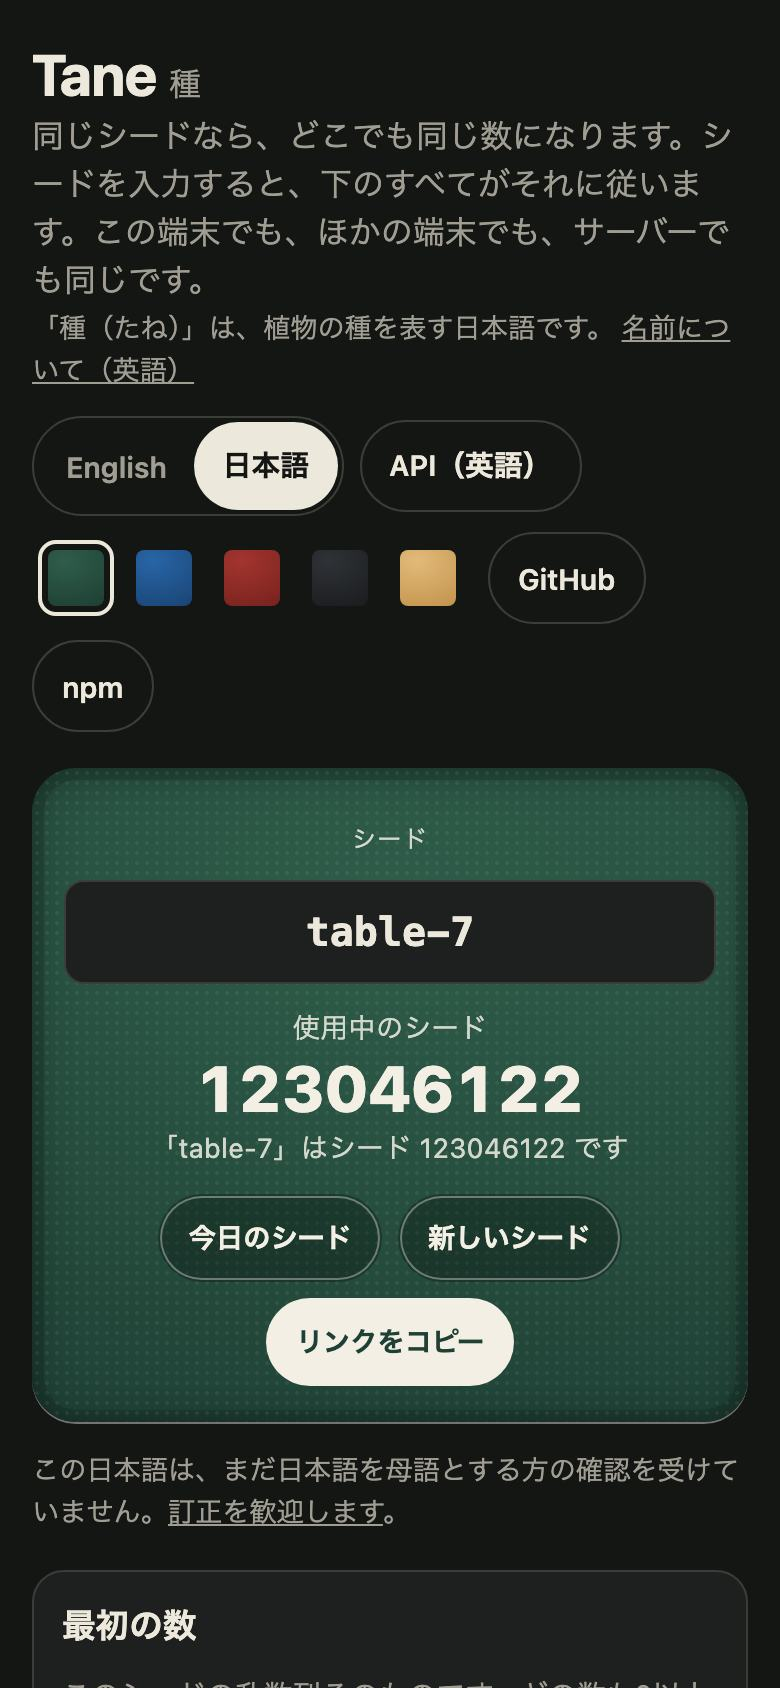
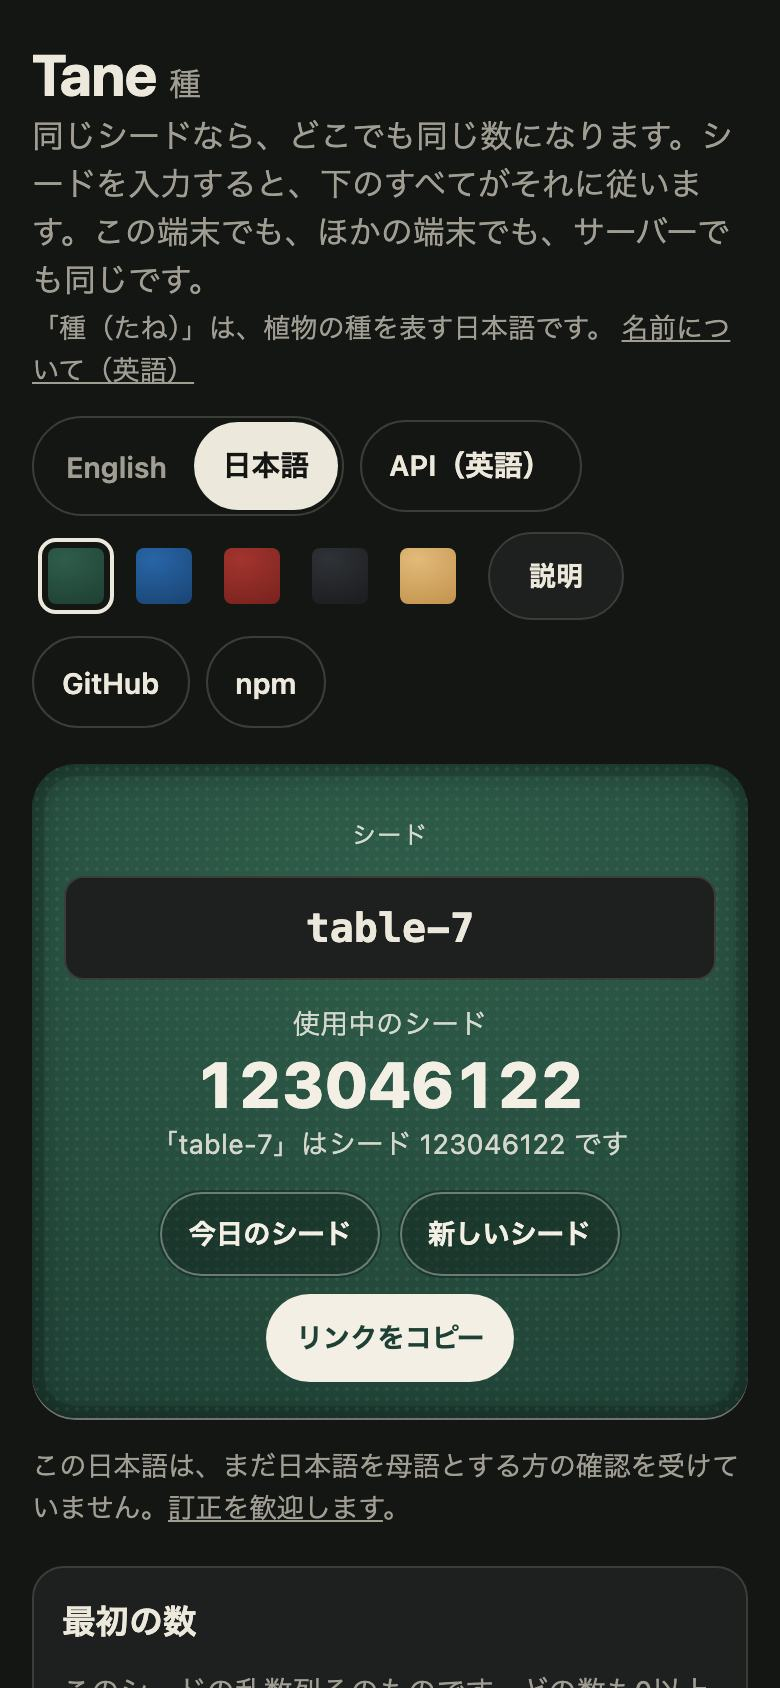
Node 22 or later; SECURITY.md and the shared code of conduct; the family of nineteen; an Accessibility section; release notes from the changelog; the pictures retaken with the Help switch

diff --git a/src/docs.test.js b/src/docs.test.js
@@ -408,3 +408,83 @@ describe("the family's look", () => {
     expect(site.indexOf('href="family.css"')).toBeLessThan(site.indexOf('href="site.css"'));
   });
 });
+
+describe("the family list", () => {
+  it("names every package of the family, once, with its kana, as the demo's footer does", () => {
+    // The template lists the packages it knows; the three that came after it are here until it does.
+    const NEWER = [
+      { id: "hikidashi", name: "Hikidashi", kana: "引き出し" },
+      { id: "chizu", name: "Chizu", kana: "地図" },
+      { id: "bushu", name: "Bushu", kana: "部首" },
+    ];
+    const template = readFileSync("scripts/family-template.mjs", "utf8");
+    const known = [...template.matchAll(/\{ id: "([\w-]+)", name: "(\w+)", kana: "([^"]+)" \}/g)].map((match) => ({ id: match[1], name: match[2], kana: match[3] }));
+    const family = [...known, ...NEWER.filter((one) => !known.some((has) => has.id === one.id))];
+    const from = readme.indexOf("### The family");
+    const block = readme.slice(from, readme.indexOf("\n## ", from));
+    const listed = [...block.matchAll(/^- \[(\w+)\]\(https:\/\/github\.com\/johnmorrisdotca\/([\w-]+)\) \(([^,)]+)[,)]/gm)];
+    expect(listed.map((match) => match[2])).toEqual(family.map((one) => one.id));
+    for (const match of listed) {
+      const one = family.find((entry) => entry.id === match[2]);
+      expect([match[1], match[3]], match[2]).toEqual([one.name, one.kana]);
+    }
+    const words = ["zero", "one", "two", "three", "four", "five", "six", "seven", "eight", "nine", "ten", "eleven", "twelve", "thirteen", "fourteen", "fifteen", "sixteen", "seventeen", "eighteen", "nineteen", "twenty"];
+    expect(block).toContain(`Tane is one of ${words[family.length]} packages`);
+    expect(block).toContain("**This package is Tane.**");
+    expect(family.length).toBeGreaterThanOrEqual(19);
+  });
+});
+
+describe("the community files", () => {
+  const read = (path) => readFileSync(path, "utf8").replace(/\r\n/g, "\n");
+
+  it("SECURITY.md and CODE_OF_CONDUCT.md are the family's master text (the shared .github repository's), a copy of which is kept in scripts/community", () => {
+    for (const file of ["SECURITY.md", "CODE_OF_CONDUCT.md"]) expect(read(file), file).toBe(read(`scripts/community/${file}`));
+  });
+
+  it("CONTRIBUTING.md carries the family's house rules and the README points to the security policy", () => {
+    const contributing = read("CONTRIBUTING.md");
+    for (const rule of ["Open an issue first", "No runtime dependencies", "kebab case", "CC0 or public domain only", "Needs Node 22 or later"]) expect(contributing, rule).toContain(rule);
+    expect(readme).toContain("[security policy](./SECURITY.md)");
+  });
+});
+
+describe("Node", () => {
+  it("is 22 or later in the package, the README, CONTRIBUTING and CI, and never 20", () => {
+    expect(pkg.engines.node).toBe(">=22");
+    expect(readme).toContain("Node 22 or later");
+    expect(readme).not.toMatch(/Node 20/);
+    expect(readFileSync("CONTRIBUTING.md", "utf8")).not.toMatch(/Node 20/);
+    expect(readFileSync(".github/workflows/ci.yml", "utf8")).toContain("node: [22, 24]");
+  });
+});
+
+describe("the release notes", () => {
+  it("are the changelog's section for the version, which the Release workflow puts on the GitHub release", async () => {
+    const { releaseNotes } = await import("../scripts/release-notes.mjs");
+    const log = "# Changelog\n\n## [Unreleased]\n\n## [1.2.0] - 2026-01-02\n\n### Added\n\n- A thing.\n\n## [1.1.0] - 2026-01-01\n\n- Older.\n\n[Unreleased]: https://example.test\n";
+    expect(releaseNotes(log, "1.2.0")).toBe("### Added\n\n- A thing.");
+    expect(releaseNotes(log, "1.1.0")).toBe("- Older.");
+    expect(releaseNotes(log, "9.9.9")).toBeNull();
+    expect(releaseNotes(log, "Unreleased")).toBeNull();
+    expect(releaseNotes(readFileSync("CHANGELOG.md", "utf8"), VERSION)?.length).toBeGreaterThan(40);
+    const workflow = readFileSync(".github/workflows/release.yml", "utf8");
+    expect(workflow).toContain("scripts/release-notes.mjs");
+    expect(workflow).not.toContain("See CHANGELOG.md.");
+  });
+});
+
+describe("the README's accessibility", () => {
+  it("says what the explorer's source does: labelled regions, a live seed, a tab list that says which is selected, an invalid paste, a status", () => {
+    const section = readme.slice(readme.indexOf("## Accessibility"), readme.indexOf("## Browser and runtime support"));
+    expect(section.length).toBeGreaterThan(400);
+    const body = readFileSync("demo/body.html", "utf8");
+    expect(body).toContain('aria-live="polite"');
+    expect(body).toContain('aria-labelledby="numbers-title"');
+    expect(body).toContain('role="tablist"');
+    expect(body).toContain('role="status"');
+    const page = readFileSync("demo/page.js", "utf8");
+    expect(page).toContain('"aria-selected"');
+    expect(page).toContain('"aria-invalid"');
+  });
+});

diff --git a/README.md b/README.md
@@ -14,7 +14,7 @@ A seedable random number generator with the draws a game needs: shuffle, pick, s
 <p align="center"><a href="https://johnmorrisdotca.github.io/tane/"><strong>Try a seed →</strong></a> · <a href="https://johnmorrisdotca.github.io/tane/api.html">API reference</a></p>
 
 <p align="center">
-  <img src="docs/desktop.jpg" alt="The seed explorer: the words table-7 typed as a seed, the number they come to, its first five numbers, a list of names in that seed's order, and today's seed with the time until it changes" width="720">
+  <img src="docs/desktop.jpg" alt="The seed explorer, under the demo's header with its language chooser, five cloth patches and the Help switch: the words table-7 typed as a seed, the number they come to, its first five numbers, a list of names in that seed's order, and today's seed with the time until it changes" width="720">
   <img src="docs/phone.jpg" alt="The seed explorer on a phone in dark mode, in Japanese" width="220">
 </p>
 
@@ -197,7 +197,7 @@ WebKit and checked against the order the seed must give, by
   1.3 kB minified (0.7 kB gzipped) once a bundler has shaken the rest out.
   Everything, with the command line's words in two languages, is about 28 kB
   (10 kB gzipped).
-- **Where it runs.** Every current browser, Node 20 and later, Deno and Bun.
+- **Where it runs.** Every current browser, Node 22 or later, Deno and Bun.
 
 ## Architecture
 
@@ -254,26 +254,30 @@ issue and we will add you.
 
 ### The family
 
-Tane has siblings, each made for the same site, each MIT, each at
+Tane is one of nineteen packages, each made for the same site, each MIT, each at
 [github.com/johnmorrisdotca](https://github.com/johnmorrisdotca):
 
-- [Korokoro](https://github.com/johnmorrisdotca/korokoro) (コロコロ, the sound
-  of something small rolling along): fair dice for the table, with the odds of
-  every throw.
-- [Kyuubu](https://github.com/johnmorrisdotca/kyuubu) (キューブ, how Japanese
-  says "cube"): a turning cube for the browser, 2×2 to 7×7, drawn in CSS 3D.
-- [Hitotsu](https://github.com/johnmorrisdotca/hitotsu) (一つ, "one"): the
-  colour-card game, with the house rules people actually play.
-- [Toranpu](https://github.com/johnmorrisdotca/toranpu) (トランプ, a deck of
-  playing cards): a deck of playing cards and ten card games, each with a
-  computer player. Its deals are made by this generator.
-- [Narabe](https://github.com/johnmorrisdotca/narabe) (並べ, "line them up"):
-  one rules engine for forty-eight abstract board games. What its games decide
-  by chance is decided by this generator.
-- [Tenka](https://github.com/johnmorrisdotca/tenka) (天下, "under heaven"):
-  world conquest for two to six, on a map of the real world.
-- [Kumimoji](https://github.com/johnmorrisdotca/kumimoji) (組み文字, "letters
-  put together"): the crossword tile race, in English and Japanese.
+- [Korokoro](https://github.com/johnmorrisdotca/korokoro) (コロコロ, the sound of something small rolling): dice, with notation, exact odds and games.
+- [Kyuubu](https://github.com/johnmorrisdotca/kyuubu) (キューブ, how Japanese says "cube"): a turning cube for the browser, 2×2 to 7×7.
+- [Hitotsu](https://github.com/johnmorrisdotca/hitotsu) (一つ, "one"): a colour-card game, named for the call a player makes with one card left.
+- [Toranpu](https://github.com/johnmorrisdotca/toranpu) (トランプ, the everyday Japanese word for a deck of playing cards): card games as pure rules.
+- [Tane](https://github.com/johnmorrisdotca/tane) (種, a seed, the kind you plant): seeded random numbers and daily seeds.
+- [Narabe](https://github.com/johnmorrisdotca/narabe) (並べ, "line them up"): a rules engine for gomoku, Reversi, Go, checkers and many more.
+- [Tenka](https://github.com/johnmorrisdotca/tenka) (天下, "under heaven"): a world-conquest game for two to six.
+- [Kumimoji](https://github.com/johnmorrisdotca/kumimoji) (組み文字, "letters put together"): a crossword tile race in English and Japanese.
+- [Tsunagi](https://github.com/johnmorrisdotca/tsunagi) (繋ぎ, "joining"): a line-joining puzzle.
+- [Jarajara](https://github.com/johnmorrisdotca/jarajara) (ジャラジャラ, the rattle of mahjong tiles being shuffled): mahjong tiles and a matching solitaire.
+- [Suido](https://github.com/johnmorrisdotca/suido) (水道, "waterworks"): a pipe puzzle.
+- [Domino](https://github.com/johnmorrisdotca/domino) (ドミノ, the Japanese word for dominoes): dominoes and Mexican Train.
+- [Kotoba](https://github.com/johnmorrisdotca/kotoba) (言葉, "words"): word lists and word-game rules.
+- [Sugoroku](https://github.com/johnmorrisdotca/sugoroku) (双六, backgammon's Japanese name): backgammon and its variants.
+- [Kazu](https://github.com/johnmorrisdotca/kazu) (数, "number"): grid number puzzles, Sudoku and five more.
+- [Meikyuu](https://github.com/johnmorrisdotca/meikyuu) (迷宮, "labyrinth"): mazes to draw a line through.
+- [Hikidashi](https://github.com/johnmorrisdotca/hikidashi) (引き出し, "a drawer"): a drawer of small Japanese text tools: era dates, kanji numerals, readings and sentence difficulty.
+- [Chizu](https://github.com/johnmorrisdotca/chizu) (地図, "map"): maps of the world and of countries' regions, in English and Japanese, with a quiz and callouts.
+- [Bushu](https://github.com/johnmorrisdotca/bushu) (部首, "radical", the part a kanji is sorted by): find a kanji by the parts it is made of.
+
+**This package is Tane.** The demos share one header and footer, which link the family together.
 
 ## Features
 
@@ -714,9 +718,22 @@ Its 2³² seeds are also all the streams there are. That is plenty for a daily
 puzzle or a deal, and too few to draw from at random for, say, every possible
 order of a 52-card deck: a seeded shuffle reaches at most 2³² of them.
 
+## Accessibility
+
+Tane draws nothing and plays no sound, so the package has nothing to see, hear
+or focus: what you build with its numbers is as accessible as you make it.
+Its command line prints plain text, in English or Japanese.
+
+The demo page, the explorer, is the worked example. Each of its sections is a
+labelled region, the seed and the numbers it comes to are in a polite live
+region, so a screen reader hears them change, the three ways of writing a
+position down are a tab list that says which is selected, a paste field says
+when what was pasted cannot be read, and a refusal is a status message.
+`src/docs.test.js` checks these against the page's source.
+
 ## Browser and runtime support
 
-Every current browser, Node 20 and later, Deno and Bun. It needs ES2020 and
+Every current browser, Node 22 or later, Deno and Bun. It needs ES2020 and
 `Math.imul`. Time zones other than UTC use `Intl.DateTimeFormat`, which every
 one of those has. The demo is tested in Chromium and in WebKit, Safari's
 engine, at phone size with touch.
@@ -760,7 +777,10 @@ pnpm check   # lint, types and tests
 pnpm site    # build the demo into ./site, then serve it
 ```
 
-Please follow the [code of conduct](./CODE_OF_CONDUCT.md).
+Please follow the [code of conduct](./CODE_OF_CONDUCT.md). An input that makes
+the generator or a parser run for very long, or text that gets out of the
+explorer into the page, is for the [security policy](./SECURITY.md), not a
+public issue.
 
 ## Changes
 

diff --git a/CONTRIBUTING.md b/CONTRIBUTING.md
@@ -60,6 +60,20 @@ pnpm dlx serve site   # or any static server
 - One change per pull request, with a line in `CHANGELOG.md` under
   *Unreleased*.
 
+## House rules, shared by every package of the family
+
+- Open an issue first for anything bigger than a typo, so that we can agree on the shape before you spend time on it.
+- No runtime dependencies. Every function that plays or checks a game is pure: it returns new values and never changes what it was given.
+- Tests sit beside the code they test. A rule you change has a test that would have caught it.
+- Words a player reads come in English and Japanese. If you cannot write the Japanese, say so in the pull request and someone will.
+- Option values and names are kebab case.
+- Art and sound are CC0 or public domain only, checked at the source, and credited in the README. No GPL or LGPL code.
+- Needs Node 22 or later. A change a user would notice gets a line in `CHANGELOG.md`.
+
+`SECURITY.md` and `CODE_OF_CONDUCT.md` are the family's shared text, word for word, from the
+[`.github` repository](https://github.com/johnmorrisdotca/.github); `scripts/community/` keeps the copy
+a test holds them to. Change them there first, never here alone.
+
 ## Releasing
 
 Maintainers bump the version in `package.json` and `src/version.ts`, and move
@@ -67,6 +81,7 @@ Maintainers bump the version in `package.json` and `src/version.ts`, and move
 `vX.Y.Z` runs the Release workflow, which checks that the tag matches
 `package.json`, runs the checks, builds and packs the package with npm,
 installs that tarball into an empty project and uses it, attaches the tarball
-to a GitHub release, and publishes it to npm with provenance, through npm's
+to a GitHub release whose notes are that version's section of the changelog
+(`scripts/release-notes.mjs`), and publishes it to npm with provenance, through npm's
 trusted publishing (no token is kept). A version already on npm is not
 published again. The workflow can also be run by hand.

diff --git a/CHANGELOG.md b/CHANGELOG.md
@@ -7,10 +7,17 @@ produces is a breaking change, and has never been made.
 
 ## [Unreleased]
 
+### Added
+
+- A README Accessibility section, and the family's list of all nineteen packages, each held to its source by a test.
+- `SECURITY.md`, and a `CODE_OF_CONDUCT.md` that is the family's shared text, with the copy a test holds them to in `scripts/community`.
+
 ### Changed
 
-- **A Help switch in the demo.** Beside the language chooser in the family header, shared by every demo. Off (the default) the page is as it was; on, each option row (the seed, the items to shuffle, the form a seed is kept in, reading one back) says in one plain line what it does, in English or Japanese, and every button in it has the same words as its hover text. Kept on the device.
+- **Node 22 or later**: `engines` is `>=22`, as the README, CONTRIBUTING and CI already tested. Node 20 is end-of-life. Nothing that was exported, and no seed's numbers, has changed.
+- The GitHub release's notes will be that version's section of this changelog, not a pointer to it (`scripts/release-notes.mjs`).
 
+- **A Help switch in the demo.** Beside the language chooser in the family header, shared by every demo. Off (the default) the page is as it was; on, each option row (the seed, the items to shuffle, the form a seed is kept in, reading one back) says in one plain line what it does, in English or Japanese, and every button in it has the same words as its hover text. Kept on the device. The README's pictures are retaken with it.
 
 ## [1.1.1] - 2026-10-01
 

diff --git a/SECURITY.md b/SECURITY.md
@@ -1,0 +1,16 @@
+# Security
+
+These packages run in your page or on your server. Beyond loading their own
+optional files, such as a sound clip when sound is turned on, they make no
+network requests, keep nothing outside the page they are on, and have no
+runtime dependencies. Their seeded random numbers are for fair, repeatable
+games and are not secret: never use a seed as a credential.
+
+If you find a way to make one do something it should not, such as an input
+that makes a solver or a check run far too long, or text that gets out of a
+drawing into the page, please write to john@johnmorris.ca rather than opening
+a public issue. Reports are read and kept confidential, and a fix is released
+as soon as there is one.
+
+Only the latest version of each package is supported. Each needs Node 22 or
+later on a server; in a browser, any current one.

diff --git a/scripts/community/SECURITY.md b/scripts/community/SECURITY.md
@@ -1,0 +1,16 @@
+# Security
+
+These packages run in your page or on your server. Beyond loading their own
+optional files, such as a sound clip when sound is turned on, they make no
+network requests, keep nothing outside the page they are on, and have no
+runtime dependencies. Their seeded random numbers are for fair, repeatable
+games and are not secret: never use a seed as a credential.
+
+If you find a way to make one do something it should not, such as an input
+that makes a solver or a check run far too long, or text that gets out of a
+drawing into the page, please write to john@johnmorris.ca rather than opening
+a public issue. Reports are read and kept confidential, and a fix is released
+as soon as there is one.
+
+Only the latest version of each package is supported. Each needs Node 22 or
+later on a server; in a browser, any current one.
